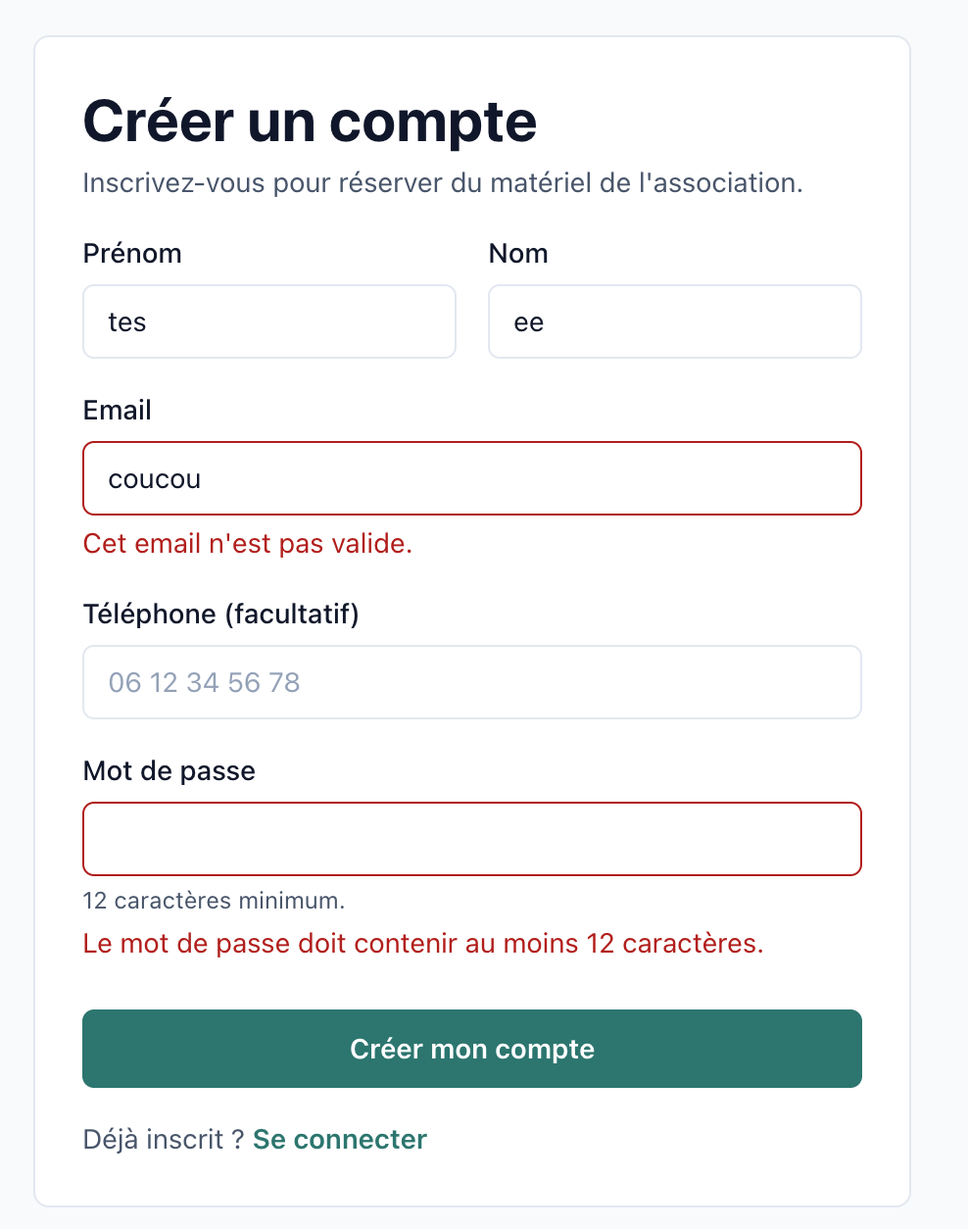
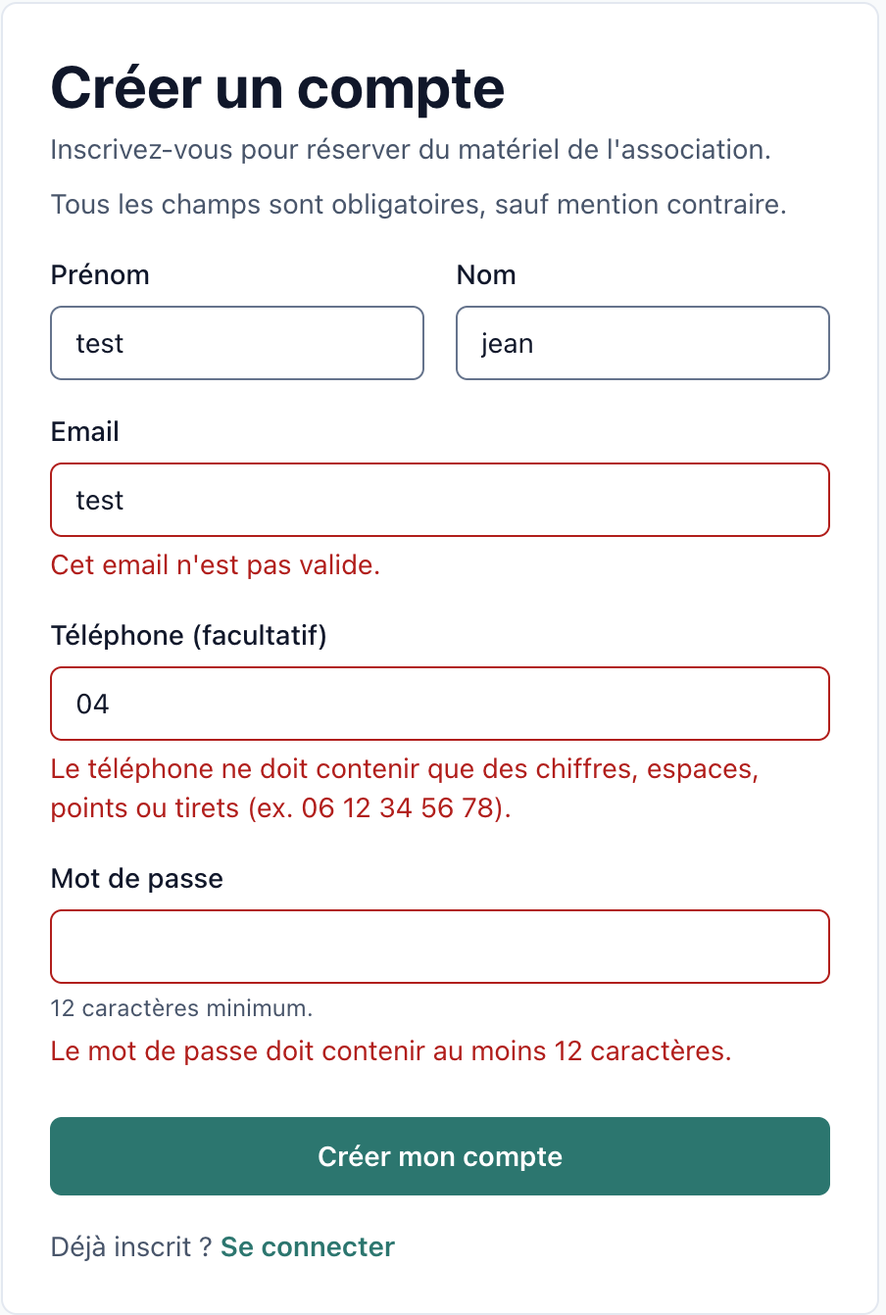
docs(captures): compléter les captures du dossier
Les notes de J3 à J7 demandaient des captures qui manquaient encore ; la liste donne l'état de chacune et consigne les anomalies trouvées pendant la vérification dans le navigateur.

diff --git a/docs/dossier/captures.md b/docs/dossier/captures.md
@@ -4,6 +4,7 @@ Ticket : [#79 J8-B2 Vérification dans le navigateur et captures du dossier](htt
 
 Liste unique des captures demandées par les notes de J3 à J7, rangées dans [captures/](captures/) et nommées par écran ou par outil. Les fichiers sont des PNG, pris avec le visuel final (après les corrections d'accessibilité de J8).
 
+
 ## Préparer
 
 Fixtures rechargées juste avant : les dates sont relatives au jour du chargement, et les fixtures créent chaque état à capturer.
@@ -13,7 +14,7 @@ docker compose exec php bin/console doctrine:fixtures:load -n --em=proprietaire
 docker compose exec php bin/console cache:pool:clear cache.rate_limiter
 ```
 
-Comptes de test (mot de passe dans `src/DataFixtures/UtilisateurFixtures.php`, constante `MOT_DE_PASSE_TEST`) :
+Comptes de test (mot de passe dans le README, avant la liste des comptes de test) :
 
 | Compte | Profil | Particularité utile aux captures |
 |---|---|---|
@@ -22,85 +23,88 @@ Comptes de test (mot de passe dans `src/DataFixtures/UtilisateurFixtures.php`, c
 | `gestionnaire@pretoutil.test` | Léa, gestionnaire | Sortie de l'Enceinte Bluetooth à valider aujourd'hui (E6) |
 | `admin@pretoutil.test` | Sacha, administrateur | Glacière électrique pas encore rendue : retour en retard (E6), objet non réservable (E4) |
 
-Navigateur : fenêtre d'environ 1440 px de large, zoom à 100 %, outils de développement fermés sauf pour les captures qui les montrent.
-
-Déjà présentes le 2026-11-24, renommées selon cette liste : `e1-connexion.png`, `e1-connexion-echec.png`, `e2-inscription.png`, `e2-inscription-erreurs.png`, `terminal-comptes-restreints-1.png`, `terminal-comptes-restreints-2.png`, `terminal-deblocage-comptes.png`. Les quatre captures d'écran datent de J3, avant les corrections de J8 (contour des champs, mention des champs obligatoires sur E2) : à reprendre avec le visuel final.
+Navigateur : Google Chrome, fenêtre d'environ 1 450 px de large, zoom à 100 %. Captures des pages cadrées sur le contenu (environ 1 570 px de large) ; terminal et éditeur capturés fenêtre par fenêtre (`screencapture` de macOS).
 
 ## 1. Écrans
 
-| Fichier | Compte | Comment l'obtenir | Note |
-|---|---|---|---|
-| `e1-connexion.png` | Visiteur | `/connexion` | J3 |
-| `e1-connexion-echec.png` | Visiteur | Email et mauvais mot de passe : « Email ou mot de passe incorrect. » | J3 |
-| `e1-connexion-blocage.png` | Visiteur | 5 échecs sur `adherent@pretoutil.test`, puis le bon mot de passe : « Trop de tentatives de connexion… ». Débloquer ensuite avec `cache:pool:clear cache.rate_limiter` | J3 |
-| `e2-inscription.png` | Visiteur | `/inscription` | J3 |
-| `e2-inscription-erreurs.png` | Visiteur | Email invalide et mot de passe trop court | J3 |
-| `e3-catalogue.png` | Visiteur | `/catalogue` | J4 |
-| `e3-catalogue-filtre.png` | Visiteur | Catégorie « Outillage » et une période | J4 |
-| `e4-detail-visiteur.png` | Visiteur | Fiche de la Tente 4 places : périodes réservées, invitation à se connecter | J4 |
-| `e4-detail-hors-service.png` | Adhérent | Fiche de la Meuleuse d'angle (hors service) | J4 |
-| `e4-reservation.png` | Camille | Fiche du Broyeur de végétaux, formulaire vide | J5 |
-| `e4-api-disponible.png` | Camille | Broyeur : saisir deux dates libres, message « disponible » de l'API sous les dates | J6 |
-| `e4-api-indisponible.png` | Camille | Tente 4 places : saisir J+7 à J+9, message de refus de l'API | J6 |
-| `e4-refus-dates.png` | Camille | Broyeur : fin avant le début, « Confirmer la réservation » | J5 |
-| `e4-refus-14-jours.png` | Camille | Broyeur : période de 15 jours | J5 |
-| `e4-refus-periode.png` | Camille | Tente 4 places : J+8 à J+10 (déjà réservée) | J5 |
-| `e4-refus-quota.png` | Noah | Broyeur : n'importe quelle période libre | J5 |
-| `e4-refus-retard.png` | Camille | Glacière électrique : n'importe quelle période à venir (objet pas encore rendu par l'emprunteur précédent, RG5) | J5 |
-| `e5-confirmation.png` | Camille | Réserver le Broyeur : message « Réservation confirmée » sur Mes réservations | J5 |
-| `e5-mes-reservations.png` | Camille | Liste avec chaque statut (confirmée, en cours, terminée, annulée) | J6 |
-| `e5-annulation.png` | Camille | Annuler la Tente : boîte de confirmation, puis capture du message affiché | J6 |
-| `e6-sorties-retours.png` | Léa | `/gestion/sorties-retours` : sortie de l'Enceinte, retour en retard de la Glacière | J6 |
-| `e6-retour-hors-service.png` | Léa | Raquettes de badminton : « Hors service », « Enregistrer le retour » : messages de succès et d'avertissement (RG7) | J6 |
-| `e7-gestion-catalogue.png` | Léa | `/gestion/catalogue` | J4 |
-| `e7-formulaire-erreurs.png` | Léa | « Ajouter un objet », envoyer le formulaire vide | J4 |
-| `e7-desactivation.png` | Léa | « Désactiver » sur la Brouette : message affiché, ligne « Retiré » | J4 |
-| `e7-suppression-confirmation.png` | Léa | « Supprimer » sur un objet jamais réservé : boîte de confirmation (annuler ensuite) | J8 |
-| `e8-gestion-comptes.png` | Sacha | `/admin/comptes` | J8 |
-| `e9-journal.png` | Sacha | `/admin/journal`, après les actions ci-dessus | J6 |
-| `e9-journal-filtre.png` | Sacha | Filtre « Connexion échouée » | J6 |
+| Fichier | Compte | Comment l'obtenir | Note | État |
+|---|---|---|---|---|
+| `e1-connexion.png` | Visiteur | `/connexion` | J3 | ✅ |
+| `e1-connexion-echec.png` | Visiteur | Email et mauvais mot de passe : « Email ou mot de passe incorrect. » | J3 | ✅ |
+| `e1-connexion-blocage.png` | Visiteur | 5 échecs sur `adherent@pretoutil.test`, puis le bon mot de passe : « Trop de tentatives de connexion… ». Débloquer ensuite avec `cache:pool:clear cache.rate_limiter` | J3 | ✅ |
+| `e2-inscription.png` | Visiteur | `/inscription` | J3 | ✅ |
+| `e2-inscription-erreurs.png` | Visiteur | Email invalide, téléphone invalide et mot de passe trop court | J3 | ✅ |
+| `e3-catalogue.png` | Visiteur | `/catalogue` | J4 | ✅ |
+| `e3-catalogue-filtre.png` | Visiteur | Catégorie « Outillage » et une période | J4 | ✅ |
+| `e4-detail-visiteur.png` | Visiteur | Fiche de la Tente 4 places : périodes réservées, invitation à se connecter | J4 | ✅ |
+| `e4-detail-hors-service.png` | Adhérent | Fiche de la Meuleuse d'angle (hors service) | J4 | ✅ |
+| `e4-reservation.png` | Camille | Fiche du Broyeur de végétaux, formulaire vide | J5 | ✅ |
+| `e4-api-disponible.png` | Camille | Broyeur : saisir deux dates libres, message « Disponible sur ces dates. » de l'API sous les dates | J6 | ✅ |
+| `e4-api-indisponible.png` | Camille | Tente 4 places : saisir J+7 à J+9, message de refus de l'API | J6 | ✅ |
+| `e4-refus-dates.png` | Camille | Broyeur : fin avant le début, « Confirmer la réservation » : erreur sous le champ (refus du serveur) | J5 | ✅ |
+| `e4-refus-14-jours.png` | Camille | Broyeur : période de 15 jours | J5 | ✅ |
+| `e4-refus-periode.png` | Camille | Tente 4 places : J+8 à J+10 (déjà réservée) | J5 | ✅ |
+| `e4-refus-quota.png` | Noah | Broyeur : n'importe quelle période libre | J5 | ✅ |
+| `e4-refus-retard.png` | Camille | Glacière électrique : n'importe quelle période à venir (objet pas encore rendu par l'emprunteur précédent, RG5) | J5 | ✅ |
+| `e5-confirmation.png` | Camille | Réserver un objet libre : message « Réservation confirmée » sur Mes réservations | J5 | ✅ |
+| `e5-mes-reservations.png` | Camille | Liste avec chaque statut (confirmée, en cours, terminée, annulée) | J6 | ✅ |
+| `e5-annulation-confirmation.png` | Camille | « Annuler » sur la Tente : boîte de confirmation du navigateur (répondre « Annuler » ensuite) | J6 | ✅ |
+| `e5-annulation.png` | Camille | Annuler la Tente : message affiché | J6 | ✅ |
+| `e6-sorties-retours.png` | Léa | `/gestion/sorties-retours` : sortie de l'Enceinte, retour en retard de la Glacière | J6 | ✅ |
+| `e6-retour-hors-service.png` | Léa | Raquettes de badminton : « Hors service », « Enregistrer le retour » : messages de succès et d'avertissement (RG7) | J6 | ✅ |
+| `e7-gestion-catalogue.png` | Léa | `/gestion/catalogue` | J4 | ✅ |
+| `e7-formulaire-erreurs.png` | Léa | « Ajouter un objet », envoyer le formulaire vide | J4 | ✅ |
+| `e7-desactivation.png` | Léa | « Désactiver » sur la Brouette : message affiché | J4 | ✅ |
+| `e7-desactivation-retire.png` | Léa | Page 2 de la liste : la Brouette passe en « Retiré » | J4 | ✅ |
+| `e7-suppression-confirmation.png` | Léa | « Supprimer » sur un objet jamais réservé : boîte de confirmation du navigateur (répondre « Annuler » ensuite) | J8 | ✅ |
+| `e8-gestion-comptes.png` | Sacha | `/admin/comptes`, après la connexion de chaque compte (colonne « Dernière activité ») | J8 | ✅ |
+| `e9-journal.png` | Sacha | `/admin/journal`, après les actions ci-dessus | J6 | ✅ |
+| `e9-journal-filtre.png` | Sacha | Filtre « Connexion échouée » | J6 | ✅ |
 
 ## 2. Navigateur : API, en-têtes, console
 
-| Fichier | Comment l'obtenir | Note |
-|---|---|---|
-| `api-disponibilites.png` | `/api/objets/{id}/disponibilites` dans le navigateur (identifiant pris dans l'URL d'une fiche), réponse JSON | J6 |
-| `api-erreur-400.png` | Même adresse avec `?debut=x&fin=y` : `{"erreur": "..."}` | J6 |
-| `http-entetes-catalogue.png` | Outils de développement, onglet Réseau, requête `/catalogue` : en-têtes de réponse (CSP, `X-Frame-Options`…) | J7 |
-| `console-e4-sans-erreur.png` | Outils de développement, onglet Console, sur une fiche E4 après la saisie des dates : aucune erreur | J7 |
+| Fichier | Comment l'obtenir | Note | État |
+|---|---|---|---|
+| `api-disponibilites.png` | `/api/objets/{id}/disponibilites?debut=…&fin=…` dans le navigateur (identifiant pris dans l'URL d'une fiche), sur une période qui chevauche une réservation : réponse JSON avec `periodes_reservees` et le motif du refus | J6 | ✅ |
+| `api-erreur-400.png` | Même adresse avec `?debut=x&fin=y` : `{"erreur": "..."}`, code 400 | J6 | ✅ |
+| `http-entetes-catalogue.png` | Outils de développement, onglet Réseau, requête `/catalogue` : en-têtes de réponse (CSP, `X-Frame-Options`…) | J7 | ✅ |
+| `console-e4-sans-erreur.png` | Outils de développement, onglet Console, sur une fiche E4 après la saisie des dates : aucune erreur | J7 | ✅ |
 
 ## 3. Terminal et outils
 
 Commandes à lancer depuis la racine du dépôt.
 
-| Fichier | Commande ou outil | Note |
-|---|---|---|
-| `terminal-comptes-restreints-1.png` | `docker compose exec php bin/console dbal:run-sql "SELECT current_user"` | J3 |
-| `terminal-comptes-restreints-2.png` | `docker compose exec php bin/console dbal:run-sql "DELETE FROM reservation"` : refusé | J3 |
-| `terminal-deblocage-comptes.png` | `docker compose exec php bin/console cache:pool:clear cache.rate_limiter` | J3 |
-| `code-migration-exclude.png` | Éditeur : `migrations/Version20261123095233.php`, contrainte `ex_reservation_chevauchement` | J3 |
-| `terminal-explain.png` | `docker compose exec -T database sh -c 'psql -U "$POSTGRES_USER" -d "$POSTGRES_DB"' < docs/conception/requetes_catalogue_explain.sql` : plans avant et après l'index | J4, J5 |
-| `terminal-phpunit.png` | `docker compose exec php bin/phpunit --testdox` : début de la sortie (matrice d'accès, sécurité) et ligne finale `OK (... tests ...)` | J4 à J7 |
-| `terminal-jeu-essai.png` | Fixtures rechargées, puis `bash docs/tests/jeu_essai_reserver.sh` : tableau des 20 cas | J7 |
-| `terminal-audits.png` | `docker compose exec php composer audit` puis `docker compose exec php bin/console importmap:audit` | J7 |
-| `mongodb-compass-audit-log.png` | MongoDB Compass (connexion : README, section « Se connecter aux bases ») : un document de `pretoutil.audit_log` déplié | J6 |
+| Fichier | Commande ou outil | Note | État |
+|---|---|---|---|
+| `terminal-comptes-restreints-1.png` | `docker compose exec php bin/console dbal:run-sql "SELECT current_user"` | J3 | ✅ |
+| `terminal-comptes-restreints-2.png` | `docker compose exec php bin/console dbal:run-sql "DELETE FROM reservation"` : refusé | J3 | ✅ |
+| `terminal-deblocage-comptes.png` | `docker compose exec php bin/console cache:pool:clear cache.rate_limiter` | J3 | ✅ |
+| `code-migration-exclude.png` | Éditeur : `migrations/Version20261123095233.php`, extension `btree_gist` et contrainte `ex_reservation_chevauchement` | J3 | ✅ |
+| `terminal-explain.png` | `docker compose exec -T database sh -c 'psql -U "$POSTGRES_USER" -d "$POSTGRES_DB"' < docs/conception/requetes_catalogue_explain.sql` : plan de la requête du catalogue sur 10 000 objets et 200 000 réservations, avec les deux index partiels | J4, J5 | ✅ |
+| `terminal-phpunit-matrice.png` | `docker compose exec php bin/phpunit --testdox --filter ControleAccesTest` : début de la matrice d'accès | J4 à J7 | ✅ |
+| `terminal-phpunit-fin.png` | `docker compose exec php bin/phpunit --testdox` : fin de la sortie (tests de sécurité) et ligne `OK (363 tests, 1485 assertions)` | J4 à J7 | ✅ |
+| `terminal-jeu-essai.png` | Fixtures rechargées, puis `bash docs/tests/jeu_essai_reserver.sh` : tableau des 20 cas, tous conformes | J7 | ✅ |
+| `terminal-audits.png` | `docker compose exec php composer audit` puis `docker compose exec php bin/console importmap:audit` : aucune faille | J7 | ✅ |
+| `mongodb-audit-log.png` | `mongosh` avec le compte administrateur, comme pour `audit_log.mongodb.js` (README, section « Journal d'audit ») : dernier document `RETOUR_ENREGISTRE` de `pretoutil.audit_log` | J6 | ✅ |
 
-Les notes de J4 à J7 demandaient chacune une sortie de `phpunit --testdox` (31, 58, 98, puis 257 tests) : une seule capture de la suite finale les remplace, le nombre de tests de chaque étape restant écrit dans les notes.
+Les notes de J4 à J7 demandaient chacune une sortie de `phpunit --testdox` (31, 58, 98, puis 257 tests) : deux captures de la suite finale les remplacent, le nombre de tests de chaque étape restant écrit dans les notes. Le journal d'erreurs de Symfony (accès refusés voulus par les tests) sort sur la sortie d'erreur : il est masqué par `2>/dev/null` pour garder la sortie lisible.
 
-Le diagramme de séquence demandé à J5 est déjà une image : [sequence-reserver.png](../diagrammes/sequence-reserver.png).
+MongoDB Compass n'est pas installé sur le poste : le document est lu avec `mongosh`, il montre les mêmes champs.
+
+Le diagramme de séquence demandé à J5 est déjà une image : [sequence-reserver.png](../diagrammes/sequence-reserver.png). L'extrait d'`EXPLAIN` avant l'index reste celui de [requetes-catalogue.md](../conception/requetes-catalogue.md), section 4 : la capture montre le plan actuel, avec les index.
 
 ## 4. Vérifications faites en même temps
 
 | Vérification | Résultat |
 |---|---|
-| Console du navigateur sans erreur sur chaque écran (CSP) | Conforme : accueil, E1 à E9 et l'API parcourus avec chaque profil, aucune erreur de script ni de CSP. Seule ligne relevée : « Failed to load resource : 422 » après l'envoi du formulaire d'objet vide, qui est le code de réponse voulu pour un formulaire invalide |
+| Console du navigateur sans erreur sur chaque écran (CSP) | Conforme : accueil, E1 à E9 et l'API parcourus avec chaque profil, aucune erreur de script ni de CSP. Seule ligne relevée : « Failed to load resource : 422 » après l'envoi du formulaire d'objet vide, qui est le code de réponse voulu pour un formulaire invalide. Revérifié dans Chrome pendant les captures : seules des exceptions du gestionnaire de mots de passe installé dans le navigateur, aucune de l'application |
 | La CSP bloque bien un script injecté | Conforme : un `<img onerror=…>` inséré dans la page est bloqué (`script-src-attr`), le gestionnaire ne s'exécute pas |
 | Message de l'API sur E4 | Conforme : « Disponible sur ces dates. » sous les dates, appel `GET /api/objets/{id}/disponibilites?debut=…&fin=…` en 200 |
 | Confirmations d'annulation (E5) et de suppression (E7) affichées | Conforme : questions « Annuler la réservation de « Tente 4 places » ? » et « Supprimer définitivement « Paddle gonflable » ? » ; réponse « Annuler » : rien n'est envoyé |
 | Cycle de vie complet : réserver (Camille), valider la sortie puis le retour (Léa), voir les actions dans le journal (Sacha) | Conforme : Brouette réservée, sortie validée, retour « Hors service » enregistré ; le journal montre `RESERVATION_CREEE`, `RESERVATION_ANNULEE`, `SORTIE_VALIDEE`, `RETOUR_ENREGISTRE`, `OBJET_CREE`, `OBJET_DESACTIVE` avec le nom des acteurs |
 | Mobile (375 px) | Conforme : aucune page ne déborde ; tableaux de E6 à E9 défilants dans leur cadre |
 
-Vérifiées le 2026-11-24 dans le navigateur intégré de l'éditeur (Chromium), après avoir ajouté au trousseau de macOS l'autorité locale de Caddy (section suivante).
+Vérifiées le 2026-11-24 dans le navigateur intégré de l'éditeur (Chromium), après avoir ajouté au trousseau de macOS l'autorité locale de Caddy (section 6), puis revues dans Google Chrome pendant les captures.
 
 ## 5. Anomalies
 
@@ -108,6 +112,14 @@ Vérifiées le 2026-11-24 dans le navigateur intégré de l'éditeur (Chromium),
 |---|---|
 | Après un retour hors service, « Brouette est maintenant hors service : **il** n'est plus réservable » : le pronom ne s'accorde pas avec un nom féminin | Corrigé : « L'objet « Brouette » est maintenant hors service : il n'est plus réservable. » (`SortiesRetoursController`) |
 | Scénario de la liste : le refus « retour en retard » de E4 était attribué à l'emprunteur en retard ; il concerne l'objet pas encore rendu (RG5) | Liste corrigée (`e4-refus-retard.png`) ; pas d'anomalie de l'application |
+| E8 : « Dernière activité » restait « Aucune » pour un compte qui se connecte sans réserver, alors que le dictionnaire de données la définit comme « dernière connexion ou réservation » ; c'est aussi le départ du délai de conservation (RGPD) | Corrigé : `ConnexionReussieListener` l'enregistre à chaque connexion réussie ; test `testConnexionReussieEnregistreLaDerniereActivite` (vérifié en retirant l'écouteur : le test échoue) |
+| `docker compose exec php bin/phpunit` s'arrêtait vers le 165e test sur 362 : mémoire de PHP épuisée (128 Mo). Xdebug, actif en mode `develop` dans l'environnement de développement, double la mémoire de la suite (56 Mo sans lui, 110 Mo avec) | Corrigé : `memory_limit` à 512 Mo dans `phpunit.dist.xml` ; la commande du README repasse |
+| `composer audit` : 9 failles publiées les 23 et 24 novembre dans `twig/twig` 3.30.0 (contournements du bac à sable, échappement manquant dans un cas de macro) | Corrigé : `composer update twig/twig`, passage en 3.31.1 (seul `composer.lock` change) ; audit propre, 363 tests verts |
+
+Remarques sur l'environnement de développement, sans effet sur l'application :
+
+- Le rechargement à chaud de FrankenPHP recharge la page quand un fichier du projet change : un message flash affiché à ce moment est consommé par le rechargement et disparaît. Ne pas écrire dans le projet pendant la capture d'un message.
+- La barre de notification d'un gestionnaire de mots de passe, posée par-dessus la page après une connexion, intercepte les clics : la fermer avant de cliquer sur un bouton.
 
 ## 6. Faire confiance au certificat local (une fois par poste)
 

diff --git a/docs/dossier/notes-j3.md b/docs/dossier/notes-j3.md
@@ -113,12 +113,12 @@ Le jury interroge chaque candidat seul : chacun doit pouvoir expliquer le travai
 
 ## 8. Captures
 
-À enregistrer dans [captures/](captures/) :
+Enregistrées dans [captures/](captures/) le 2026-11-24 (liste complète et état : [captures.md](captures.md)) :
 
 | Fichier                      | Contenu                                                                          | Partie du dossier       |
 | ---------------------------- | -------------------------------------------------------------------------------- | ----------------------- |
-| `j3-migration-exclude.png`   | Migration `Version20261123095233.php`, contrainte `ex_reservation_chevauchement` | Base de données         |
-| `j3-connexion-e1.png`        | Écran de connexion E1                                                            | Interface et sécurité   |
-| `j3-connexion-blocage.png`   | Message « Trop de tentatives de connexion… » après 5 échecs                      | Sécurité                |
-| `j3-inscription-erreurs.png` | Écran E2 avec les erreurs sur les champs                                         | Interface et validation |
-| `j3-comptes-restreints.png`  | Terminal : `SELECT current_user` puis `DELETE FROM reservation` refusé           | Sécurité de la base     |
+| [`code-migration-exclude.png`](captures/code-migration-exclude.png) | Migration `Version20261123095233.php`, contrainte `ex_reservation_chevauchement` | Base de données         |
+| [`e1-connexion.png`](captures/e1-connexion.png) | Écran de connexion E1                                                            | Interface et sécurité   |
+| [`e1-connexion-blocage.png`](captures/e1-connexion-blocage.png) | Message « Trop de tentatives de connexion… » après 5 échecs                      | Sécurité                |
+| [`e2-inscription-erreurs.png`](captures/e2-inscription-erreurs.png) | Écran E2 avec les erreurs sur les champs                                         | Interface et validation |
+| [`terminal-comptes-restreints-1.png`](captures/terminal-comptes-restreints-1.png), [`-2.png`](captures/terminal-comptes-restreints-2.png) | Terminal : `SELECT current_user` puis `DELETE FROM reservation` refusé           | Sécurité de la base     |

diff --git a/docs/dossier/notes-j6.md b/docs/dossier/notes-j6.md
@@ -102,10 +102,12 @@ Le code respecte les tickets #55 et #56 : transitions dans le service avec excep
 
 ## 8. Captures à faire
 
-- E5 : liste avec chaque statut, message après annulation
-- E4 : message de l'API après saisie des dates (disponible, puis refusé)
-- E6 : sorties à valider, retours en retard, message après un retour hors service
-- E9 : journal complet, puis filtré sur une action
-- Réponse JSON de l'API dans le navigateur, et une erreur 400
-- Document `audit_log` dans MongoDB Compass
-- Sortie de `phpunit --testdox` (98 tests)
+Faites le 2026-11-24, état détaillé dans [captures.md](captures.md).
+
+- [x] E5 : liste avec chaque statut, message après annulation : [e5-mes-reservations.png](captures/e5-mes-reservations.png), [e5-annulation.png](captures/e5-annulation.png), boîte de confirmation [e5-annulation-confirmation.png](captures/e5-annulation-confirmation.png)
+- [x] E4 : message de l'API après saisie des dates (disponible, puis refusé) : [e4-api-disponible.png](captures/e4-api-disponible.png), [e4-api-indisponible.png](captures/e4-api-indisponible.png)
+- [x] E6 : sorties à valider, retours en retard, message après un retour hors service : [e6-sorties-retours.png](captures/e6-sorties-retours.png), [e6-retour-hors-service.png](captures/e6-retour-hors-service.png)
+- [x] E9 : journal complet, puis filtré sur une action : [e9-journal.png](captures/e9-journal.png), [e9-journal-filtre.png](captures/e9-journal-filtre.png)
+- [x] Réponse JSON de l'API dans le navigateur, et une erreur 400 : [api-disponibilites.png](captures/api-disponibilites.png), [api-erreur-400.png](captures/api-erreur-400.png)
+- [x] Document `audit_log` : lu avec `mongosh` (Compass non installé), [mongodb-audit-log.png](captures/mongodb-audit-log.png)
+- [x] Sortie de `phpunit --testdox` (98 tests) : remplacée par la suite finale, [terminal-phpunit-matrice.png](captures/terminal-phpunit-matrice.png) et [terminal-phpunit-fin.png](captures/terminal-phpunit-fin.png)

diff --git a/docs/dossier/notes-j4.md b/docs/dossier/notes-j4.md
@@ -89,8 +89,10 @@ Le code est conforme au ticket : Voters testés, contrôleur sans logique métie
 
 ## 8. Captures à faire
 
-- E3 Catalogue sans filtre, puis filtré sur une catégorie et une période
-- E4 Détail : un objet avec indisponibilités, un objet hors service, la vue visiteur
-- E7 Gestion du catalogue : liste, formulaire avec erreurs, message après désactivation
-- Sortie de `phpunit --testdox` (31 tests)
-- Extrait de `EXPLAIN` avant et après l'index (section 4 de [requetes-catalogue.md](../conception/requetes-catalogue.md))
+Faites le 2026-11-24, état détaillé dans [captures.md](captures.md).
+
+- [x] E3 Catalogue sans filtre, puis filtré sur une catégorie et une période : [e3-catalogue.png](captures/e3-catalogue.png), [e3-catalogue-filtre.png](captures/e3-catalogue-filtre.png)
+- [x] E4 Détail : un objet avec indisponibilités, un objet hors service, la vue visiteur : [e4-detail-visiteur.png](captures/e4-detail-visiteur.png) (Tente 4 places, réservée), [e4-detail-hors-service.png](captures/e4-detail-hors-service.png)
+- [x] E7 Gestion du catalogue : liste, formulaire avec erreurs, message après désactivation : [e7-gestion-catalogue.png](captures/e7-gestion-catalogue.png), [e7-formulaire-erreurs.png](captures/e7-formulaire-erreurs.png), [e7-desactivation.png](captures/e7-desactivation.png), [e7-desactivation-retire.png](captures/e7-desactivation-retire.png)
+- [x] Sortie de `phpunit --testdox` (31 tests) : remplacée par la suite finale, [terminal-phpunit-matrice.png](captures/terminal-phpunit-matrice.png) et [terminal-phpunit-fin.png](captures/terminal-phpunit-fin.png)
+- [x] Extrait de `EXPLAIN` avant et après l'index : avant, texte de la section 4 de [requetes-catalogue.md](../conception/requetes-catalogue.md) ; après, [terminal-explain.png](captures/terminal-explain.png)

diff --git a/docs/dossier/notes-j5.md b/docs/dossier/notes-j5.md
@@ -95,8 +95,10 @@ Le code respecte les tickets #45 et #46 : contrôleur sans règle métier, DTO v
 
 ## 8. Captures à faire
 
-- E4 : formulaire vide, puis chaque message de refus (dates, 14 jours, quota, période indisponible, retour en retard)
-- Message « Réservation confirmée » sur « Mes réservations »
-- Sortie de `phpunit --testdox` (58 tests)
-- Diagramme de séquence mis à jour ([sequence-reserver.png](../diagrammes/sequence-reserver.png))
-- Extrait d'`EXPLAIN` avec les deux index partiels ([requetes-catalogue.md](../conception/requetes-catalogue.md), section 4)
+Faites le 2026-11-24, état détaillé dans [captures.md](captures.md).
+
+- [x] E4 : formulaire vide, puis chaque message de refus (dates, 14 jours, quota, période indisponible, retour en retard) : [e4-reservation.png](captures/e4-reservation.png), [e4-refus-dates.png](captures/e4-refus-dates.png), [e4-refus-14-jours.png](captures/e4-refus-14-jours.png), [e4-refus-quota.png](captures/e4-refus-quota.png), [e4-refus-periode.png](captures/e4-refus-periode.png), [e4-refus-retard.png](captures/e4-refus-retard.png)
+- [x] Message « Réservation confirmée » sur « Mes réservations » : [e5-confirmation.png](captures/e5-confirmation.png)
+- [x] Sortie de `phpunit --testdox` (58 tests) : remplacée par la suite finale, [terminal-phpunit-matrice.png](captures/terminal-phpunit-matrice.png) et [terminal-phpunit-fin.png](captures/terminal-phpunit-fin.png)
+- [x] Diagramme de séquence mis à jour ([sequence-reserver.png](../diagrammes/sequence-reserver.png))
+- [x] Extrait d'`EXPLAIN` avec les deux index partiels : [terminal-explain.png](captures/terminal-explain.png) (`idx_reservation_dates_actives` et `idx_reservation_en_cours`)

diff --git a/docs/dossier/notes-j7.md b/docs/dossier/notes-j7.md
@@ -89,8 +89,10 @@ PR #70 et #71 relues et fusionnées par Chloé. Points relevés par Anthony dans
 
 ## 7. Captures à faire
 
-- Sortie de `phpunit --testdox` : début de la matrice d'accès et des tests de sécurité (257 tests)
-- Sortie du script du jeu d'essai (tableau des 20 cas)
-- En-têtes de réponse de `/catalogue` dans les outils de développement du navigateur (CSP, `X-Frame-Options`)
-- Console du navigateur sur E4 sans erreur CSP
-- `composer audit` et `importmap:audit` sans faille
+Faites le 2026-11-24, état détaillé dans [captures.md](captures.md).
+
+- [x] Sortie de `phpunit --testdox` : début de la matrice d'accès et des tests de sécurité (257 tests à J7, 363 au gel) : [terminal-phpunit-matrice.png](captures/terminal-phpunit-matrice.png), [terminal-phpunit-fin.png](captures/terminal-phpunit-fin.png)
+- [x] Sortie du script du jeu d'essai (tableau des 20 cas) : [terminal-jeu-essai.png](captures/terminal-jeu-essai.png)
+- [x] En-têtes de réponse de `/catalogue` dans les outils de développement du navigateur (CSP, `X-Frame-Options`) : [http-entetes-catalogue.png](captures/http-entetes-catalogue.png)
+- [x] Console du navigateur sur E4 sans erreur CSP : [console-e4-sans-erreur.png](captures/console-e4-sans-erreur.png)
+- [x] `composer audit` et `importmap:audit` sans faille : [terminal-audits.png](captures/terminal-audits.png), après la mise à jour de Twig du 2026-11-24 (9 failles publiées la veille et le jour même)

diff --git a/README.md b/README.md
@@ -835,3 +835,5 @@ Aucun mot de passe n'est versionné. `compose.yaml` transmet `.env.local` aux tr
 | 2026-11-24 | Composants des écrans de gestion (tableau, en-têtes, boutons, listes, pagination) définis une seule fois, dans la feuille de styles et une inclusion Twig | Les quatre écrans E6 à E9 gardent la même présentation, celle des maquettes E6 et E9 |
 | 2026-11-24 | Tableaux larges défilant dans un cadre atteignable au clavier (`role="region"`, `tabindex="0"`) | Lisibles sur mobile sans faire défiler la page ; utilisables sans souris |
 | 2026-11-24 | Autorité locale de Caddy ajoutée au trousseau de macOS pour les vérifications dans le navigateur | Les navigateurs automatisés refusent un certificat non reconnu ; la console, la CSP et les parcours ont ainsi été vérifiés dans un vrai navigateur (#79) |
+| 2026-11-24 | `twig/twig` mis à jour de 3.30.0 en 3.31.1 avant le gel du code | 9 failles publiées les 23 et 24 novembre, relevées par `composer audit` pendant les captures (#79) ; mise à jour corrective, seul `composer.lock` change |
+| 2026-11-24 | Dernière activité d'un compte enregistrée aussi à la connexion réussie (`ConnexionReussieListener`) | Conforme au dictionnaire de données : le délai de conservation RGPD part de la dernière connexion ou réservation, pas de la seule réservation |
